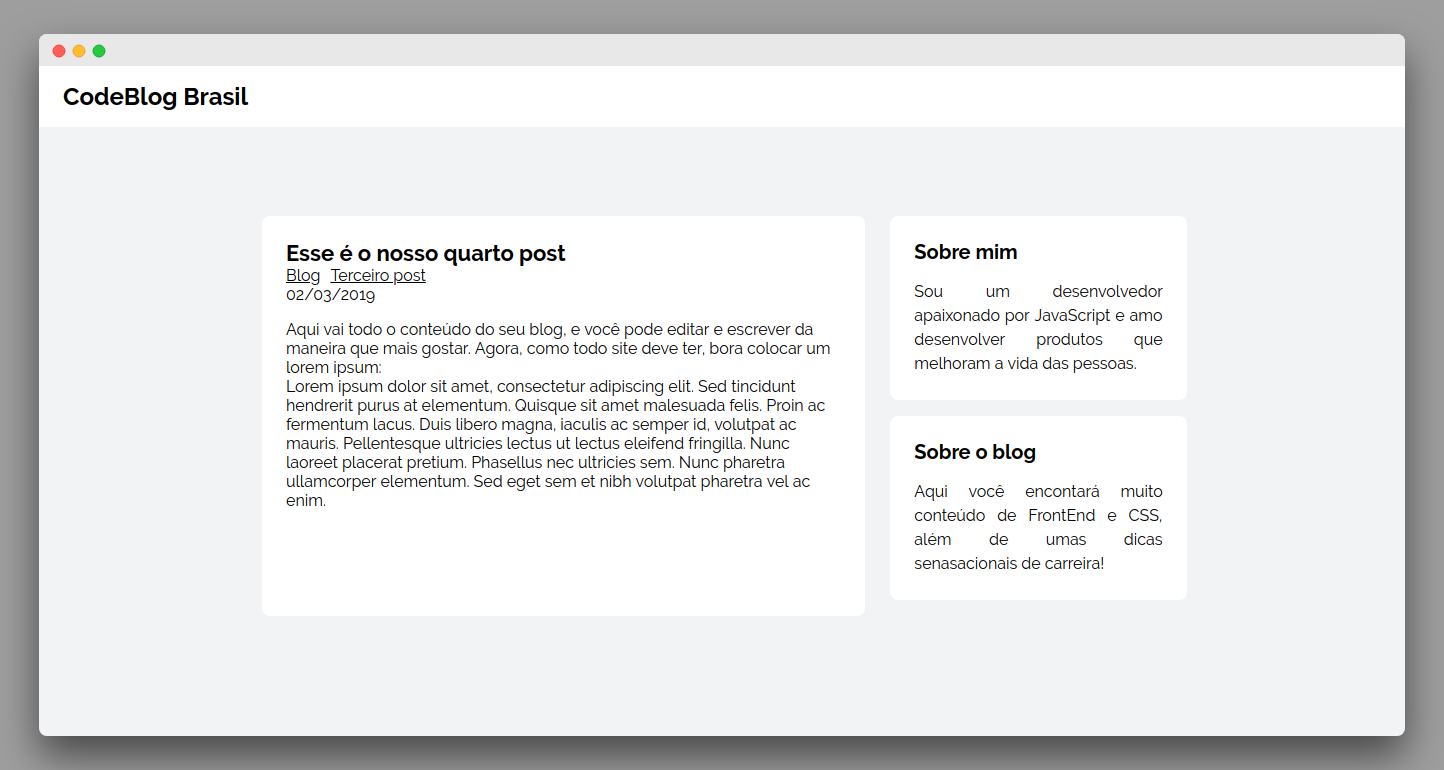
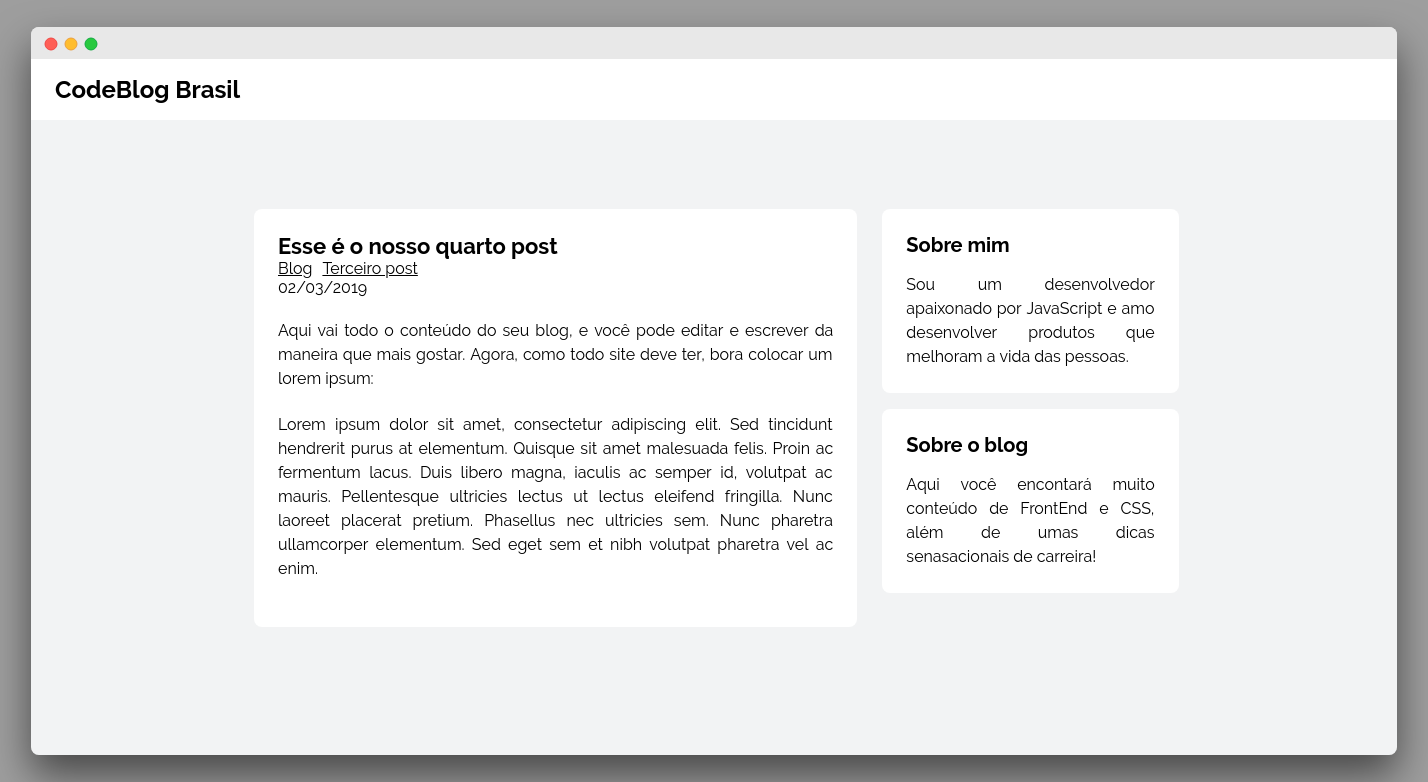
Edit About page and content posts

diff --git a/src/pages/sobre.jsx b/src/pages/sobre.jsx
@@ -23,12 +23,12 @@ export default class AboutPage extends Component {
             No início de 2017 começei a cursar Engenharia de Software na
             Universidade do Estado de Santa Catarina e atualmente estou na 5ª
             fase. Nessa época também descobri o poder do desenvolvimento web, e
-            de lá para cá foram muitos e muitos cursos e muitas horas de estudo
+            de lá para cá foram muitos cursos e muitas horas de estudo
             e prática. Hoje procuro me especializar principalmente no
             desenvolvimento FrontEnd e em UX/UI.
           </p>
           <p>
-            Além de tudo isso eu ainda amo trabalhar em equipe e ajudar as
+            Também amo trabalhar em equipe e ajudar as
             pessoas. No meu tempo livre costumo estudar teologia e conhecer um
             pouco melhor Jesus :)
           </p>

diff --git a/content/posts/2019-03-11--blog-com-gatsby-e-react-parte-4/index.md b/content/posts/2019-03-11--blog-com-gatsby-e-react-parte-4/index.md
@@ -1,0 +1,180 @@
+---
+title: "Criando um blog com Gatsby e React - Parte 4"
+cover: "./cover.png"
+date: 2019-02-26
+description: "4 post da série"
+category: "gatsby"
+draft: true
+tags:
+    - React
+    - Gatsby
+---
+
+## Introdução
+
+Iaee pessoal! Como vocês estão? Depois de alguns dias estou de volta hoje para mais um post da nossa série, onde vamos adicionar vários plugins e melhorar algumas coisas. Por isso, como de costume, já pega o café e bora *codar*.
+
+## Tabela de conteúdos <!-- omit in toc -->
+
+- [Introdução](#introdu%C3%A7%C3%A3o)
+- [Terminando o template dos posts](#terminando-o-template-dos-posts)
+- [Melhorias no projeto](#melhorias-no-projeto)
+- [React Helmet](#react-helmet)
+- [Melhorando o SEO](#melhorando-o-seo)
+  - [manifest.json e suporte offline](#manifestjson-e-suporte-offline)
+  - [Google Analytics](#google-analytics)
+  - [Sitemap.xml e RSS](#sitemapxml-e-rss)
+
+## Terminando o template dos posts
+
+Antes de começarmos a adicionar os plugins vamos primeiro terminar o template do nosso post. A ideia é adicionarmos um título, mostrarmos as tags e a data de publicação.
+
+Para isso, dentro de templates, no `post.jsx` adicione o seguinte código:
+
+```javascript
+// src/templates/post.jsx
+import React, { Component } from "react";
+import { graphql, Link } from "gatsby";
+import _ from "lodash";
+import Layout from "../components/Layout";
+
+export default class Post extends Component {
+  render() {
+    const { data } = this.props;
+    const { title, tags, date } = data.markdownRemark.frontmatter;
+    const { html } = data.markdownRemark; 
+    return (
+      <Layout>
+        <div style={{ backgroundColor: '#FFF', width: '100%', padding: '1.5rem', borderRadius: '0.50rem', margin: '10px 15px'}}>
+          <h2 style={{ fontSize: '22px', fontWeight: 'bold' }}>{title}</h2>
+          <p>{tags.map(tag => <Link style={{ color: '#000', marginRight: '10px' }} key={tag} to={`/tag/${_.kebabCase(tag)}`}>{tag}</Link>)}</p>
+          <p>{date}</p>
+          <div className="content">
+            <p dangerouslySetInnerHTML={{ __html: html }} />
+          </div>
+        </div>
+      </Layout>
+    )
+  }
+};
+
+export const pageQuery = graphql`
+  query PostPage($slug: String!) {
+    markdownRemark(fields: { slug: { eq: $slug } } ) {
+      html
+      timeToRead
+      excerpt
+      frontmatter {
+        title
+        date(formatString: "DD/MM/YYYY")
+        tags
+        description
+      }
+      fields {
+        slug
+      }
+    }
+  }
+`;
+```
+
+Adicione também um pouco de CSS no `Layout.css`.
+
+```css
+/* src/components/Layout/Layout.css */
+/* ... */
+.content p {
+    line-height: 1.5;
+    text-align: justify;
+    margin: 22px 0px;
+}
+```
+
+![Página do post](/images/posts/2019-03-04--blog-com-gatsby-e-react-parte-4/result-part7.png)
+
+## Melhorias no projeto
+
+Agora que terminamos toda a parte bruta do site vamos começar a cuidar dos pequenos detalhes que vão deixar o nosso blog bem "equipado", e para começarmos, vamos usar um componente responsável por manipular o `head` das nossas páginas, o [Helmet](https://github.com/nfl/react-helmet).
+
+## React Helmet
+ 
+Antes de começarmos a usar o Helmet precisamos instalar ele junto com um plugin do Gatsby que permite o suporte para renderização dos dados no *server*.
+
+```
+npm install --save react-helmet gatsby-plugin-react-helmet
+```
+
+Uma vez que o plugin foi instalado precisamos adicionar dentro do `gatsby-node.js`. Portanto, dentro do array de plugins adicione a seguite linha: `'gatsby-plugin-react-helmet'`
+
+E antes de começarmos a usar vamos criar um arquivo JavaScript com os principais dados do nosso site, de modo que facilitesse a nossa manutenção depois. Logo, dentro da pasta `data` crie um arquivo chamado `config.js`.
+
+Dentro dessa arquivo vamos colocar o título do nosso site, dados para o `manifest.json`, id do Google Analytics e outras coisas.
+
+```javascript
+// data/config.js
+const config = {
+  siteTitle: 'CodeStack Brasil', 
+  siteDescription: 'O melhor blog de programação do Brasil', 
+  siteTitleShort: 'CodeStack BR',
+  siteRss: "/rss.xml",
+  googleAnalyticsID: "**-********-*",
+  themeColor: "#000000",
+  backgroundColor: "#F2F3F4",
+};
+
+module.exports = config;
+```
+
+Agora precisamos editar o `gatsby-config.js`.
+
+```javascript
+// gatsby-config.js
+const config = require("./data/config");
+
+module.exports = {
+  siteMetadata: {
+    title: config.siteTitle,
+    description: config.siteDescription
+  },
+  // plugins aqui
+}
+```
+
+Se você abrir a página no navegador nada deve ter mudado. A mesma interface, porém com uma manutenção melhor.
+
+O que precisamos fazer nesse momento é criar um estrutura básica para o helmet, e para isso, nada mais justo que usarmos o layout.
+
+Dentro do arquivo `Layout.jsx` adicione o seguinte componente junto com os imports:
+
+```javascript
+// src/components/Layout/Layout.jsx
+
+// imports aqui
+import Helmet from 'react-helmet';
+import favicon from '../../../static/favicon.png';
+import config from '../../../data/config';
+
+export default ({ children }) => (
+  <div>
+    <Helmet>
+      <meta name="description" content={config.siteDescription} />
+      <link rel="icon" href={favicon} />
+    </Helmet>
+    /* o resto do conteúdo */
+  </div>
+);
+```
+
+O favicon que estou utilizando aqui pode ser encontrado nesse [link](https://br.pinterest.com/pin/638877897118737778), mas caso queira usar outra imagem sinta-se à vontate.
+
+## Melhorando o SEO
+
+Todo mundo sabe que SEO é muito importante para qualquer site/blog por justamente criar visibilidade para a sua marca/produto ou para o seu framework JavaScript haha. Por tal motivo vamos precisar de um componente top, e, nem precisamos criar n
+
+
+
+### manifest.json e suporte offline
+
+### Google Analytics
+
+### Sitemap.xml e RSS

diff --git a/content/posts/2019-02-28--blog-com-gatsby-e-react-parte-3/index.md b/content/posts/2019-02-28--blog-com-gatsby-e-react-parte-3/index.md
@@ -242,6 +242,7 @@ Para testá-la adicione a seguinte query e execute:
 Se nenhum erro surgiu você deve ter visto um JSON com os principais dados dos nossos posts. E Uma vez que testamos a ferramenta podemos realizar a mesma consulta utilizando uma page query. Portanto, dentro do `index.jsx` em `pages` adicione o seguite código:
 
 ```javascript
+// src/pages/index.jsx
 import React, { Component } from "react";
 import { graphql } from "gatsby";
 import Layout from "../components/Layout";
@@ -300,6 +301,7 @@ O template para as tags é muito parecido com a nossa página inicial. A única 
 Portanto, abra o `tag.jsx` e adicione o seguinte código:
 
 ```javascript
+// src/templates/tag.jsx
 import React, { Component } from "react";
 import { graphql } from "gatsby";
 import Layout from "../components/Layout";
@@ -352,4 +354,4 @@ Se quiser testar a página pode o fazer pela seguinte URL: [http://localhost:800
 
 No post de hoje vimos muita coisa e começamos a dar vida para o nosso blog, que até agora já tem muitas funcionalidades boas, porém, tem também muita coisa para melhorar. 
 
-No próximo post vamos terminar a página que mostra o conteúdo dos posts. Além disso vamos adicionar o Disqus para comentários e também adicionar muitos plugins do Gatsby, que irão deixar o blog fantástico. Nos vemos lá! Deus abençoe!
+No próximo post vamos terminar a página que mostra o conteúdo dos posts. Além disso vamos adicionar muitos plugins do Gatsby que irão deixar o blog fantástico. Nos vemos lá! Deus abençoe!

diff --git a/content/posts/2019-02-21--blog-com-gatsby-e-react-parte-1/index.md b/content/posts/2019-02-21--blog-com-gatsby-e-react-parte-1/index.md
@@ -68,8 +68,7 @@ Na lista abaixo você pode ver algumas funcionalidades que iremos implementar.
 - Suporte para Google Analytics;
 - Suporte offline;
 - Markdown para escrever os posts; 
-- Manifest; 
-- Seção de comentários com Disqus; 
+- Manifest.json; 
 - Tags; 
 - Robots.txt; 
 - Schema.org JSONLD; 
